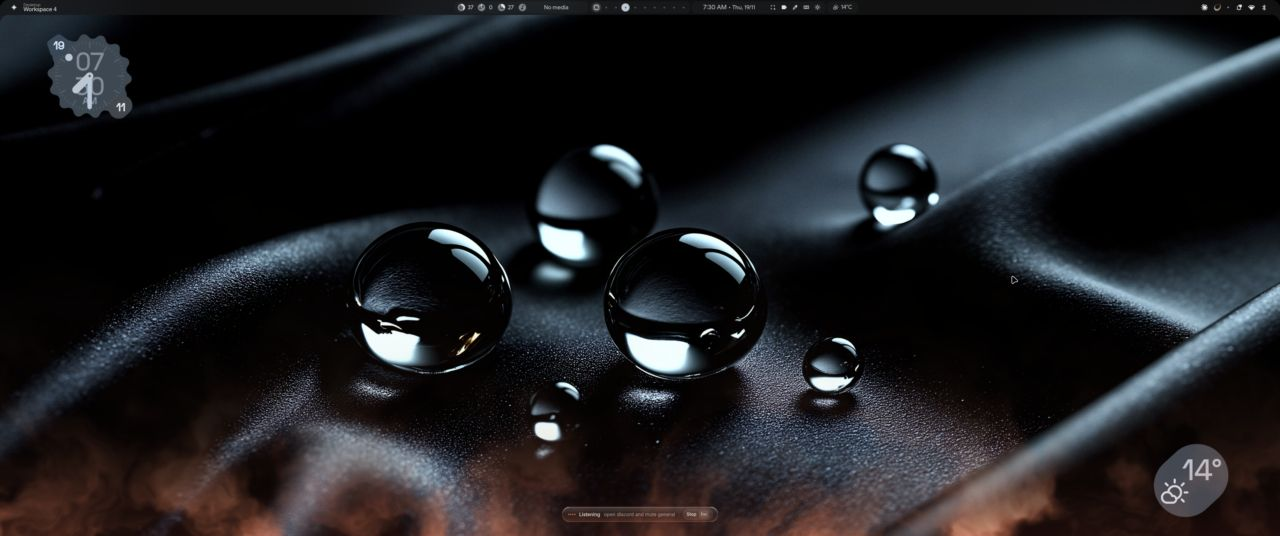
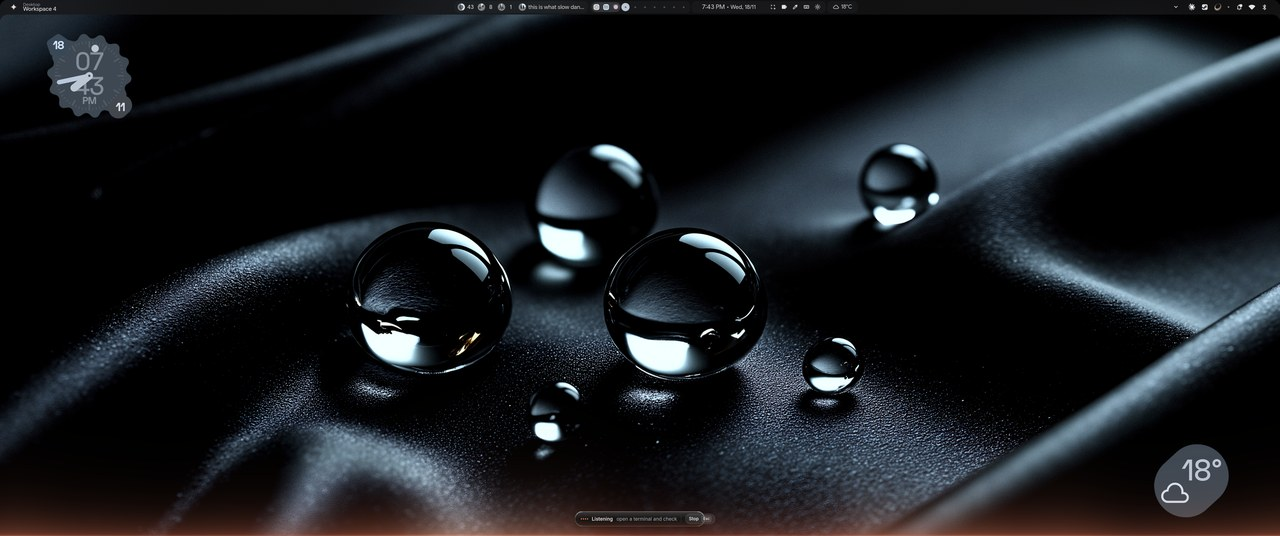
README: new glow in the demo and docs

diff --git a/README.md b/README.md
@@ -8,7 +8,7 @@ It runs as a local MCP server, so the Claude desktop app and Claude Code can bot
 
 <sub>The overlay's own QML rendered frame by frame over my desktop: listening, working on screen, working on the workspace to the right, then the corner pill it switches to when you're in a game.</sub>
 
-| Listening | While you're gaming | Claude's cursor |
+| Listening (rendered) | While you're gaming | Claude's cursor |
 |---|---|---|
 | ![Listening](docs/listening.jpg) | ![Corner pill](docs/corner.jpg) | ![Cursor](docs/cursor.jpg) |
 
@@ -64,11 +64,11 @@ If you're in a fullscreen game or watching a video, it leaves your workspace alo
 
 ## The overlay
 
-While Claude is working, a slow orange mist drifts along the edges of the screen, it gets a small cursor of its own with a "Claude" tag, and a glass pill at the bottom says what it's doing. Where it shows depends on what Claude is doing:
+While Claude is working, a soft orange glow sits along the edges of the screen, slowly swelling and drifting so it feels alive without getting in the way. Claude also gets a small cursor of its own with a "Claude" tag, and a glass pill at the bottom says what it's doing. Where it shows depends on what Claude is doing:
 
-- working on your screen: mist on all edges
+- working on your screen: a glow on all edges
 - working in a window next to yours: a faint halo around just that window
-- working on the workspace to your left or right: a thin wisp on that edge only
+- working on the workspace to your left or right: a faint glow on that edge only
 - you're gaming or watching something fullscreen: only a small pill in the top right corner
 
 It runs on Quickshell as its own layer. Your mouse goes straight through it, and a layer rule keeps it out of screen captures, so Claude never sees it in its own screenshots and it never shows up in your recordings or streams. The pill gets Hyprland's blur from a rule the server adds at runtime, so nothing in your config changes.
